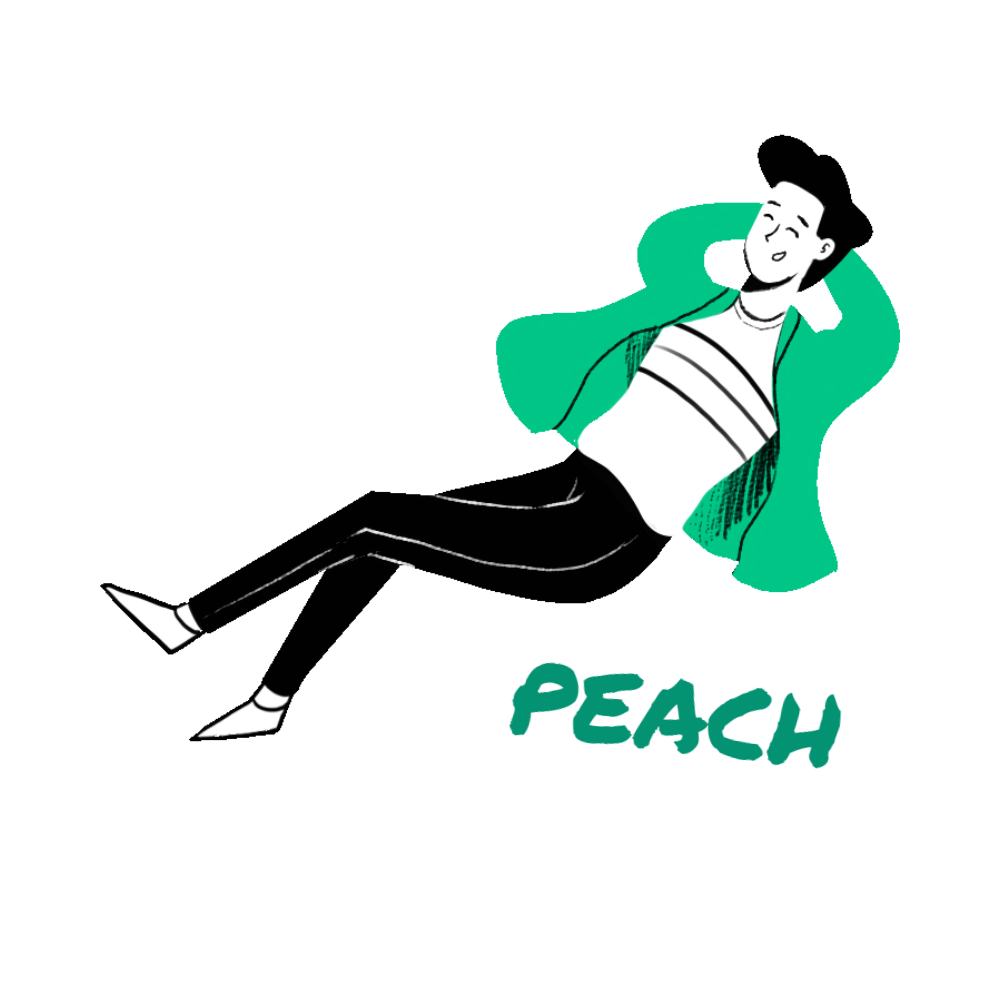
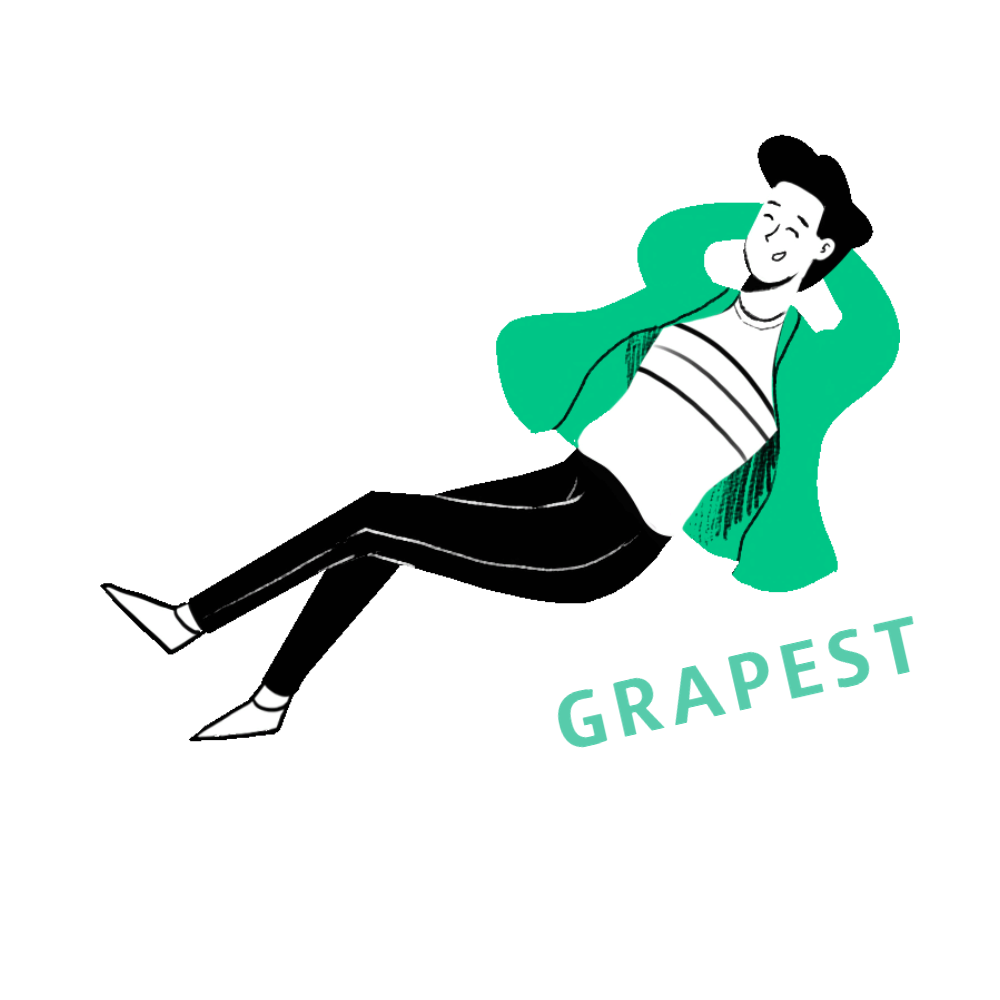
[Modify] Styles

Changed region(s): [[0.496, 0.62, 0.93, 0.775]]

diff --git a/pages/index.tsx b/pages/index.tsx
@@ -1,6 +1,6 @@
 import type { GetServerSideProps, NextPage } from "next";
 import SEO from "../components/SEO/SEO";
-import styles from "../styles/Home.module.css";
+// import styles from "../styles/Home.module.css";
 import { Intro, Services } from "../components";
 import { services_data } from "../constants/data/services";
 import ServicesType from "../constants/types/ServicesType";
@@ -23,7 +23,7 @@ export const getServerSideProps: GetServerSideProps = async () => {
 
 const Home: NextPage<Props> = ({ services, userData }) => {
   return (
-    <div className={styles.container}>
+    <div>
       <SEO title="GRAPEST" description="GRAPEST home" />
       <Intro />
       <Services services={services} />

diff --git a/components/Testimonial/Testimonial.tsx b/components/Testimonial/Testimonial.tsx
@@ -9,11 +9,9 @@ type Props = {
 };
 
 const Testimonial = ({ userData }: Props) => {
-  console.log(userData);
   return (
     <div className={styles.container}>
-      <Circle backgroundColor="darkblue" top="-70vh" left="0" right="0" />
-      <h1 className={styles.title}>Testimonials</h1>
+      <h1 className={styles.title}>Partners testimonial</h1>
       <div className={styles.wrapper}>
         {userData.map((user) => (
           <div className={styles.card} key={user.login.uuid}>

diff --git a/styles/Testimonial.module.css b/styles/Testimonial.module.css
@@ -1,6 +1,6 @@
 .container {
   font-size: 18px;
-  height: 100vh;
+  height: 100%;
   padding-bottom: 100px;
   position: relative;
   overflow: hidden;
@@ -12,7 +12,9 @@
 
 .title {
   text-align: center;
-  margin: 0;
+  margin: 2rem 0;
+  color: rgba(0, 128, 0, 0.774);
+  border-bottom: 3px double red;
 }
 
 .wrapper {

diff --git a/components/Intro/Intro.tsx b/components/Intro/Intro.tsx
@@ -28,7 +28,7 @@ const Intro = (props: Props) => {
           height="100%"
           layout="fill"
           objectFit="contain"
-          alt=""
+          alt="Digital product agency grapest"
         />
       </div>
     </div>
